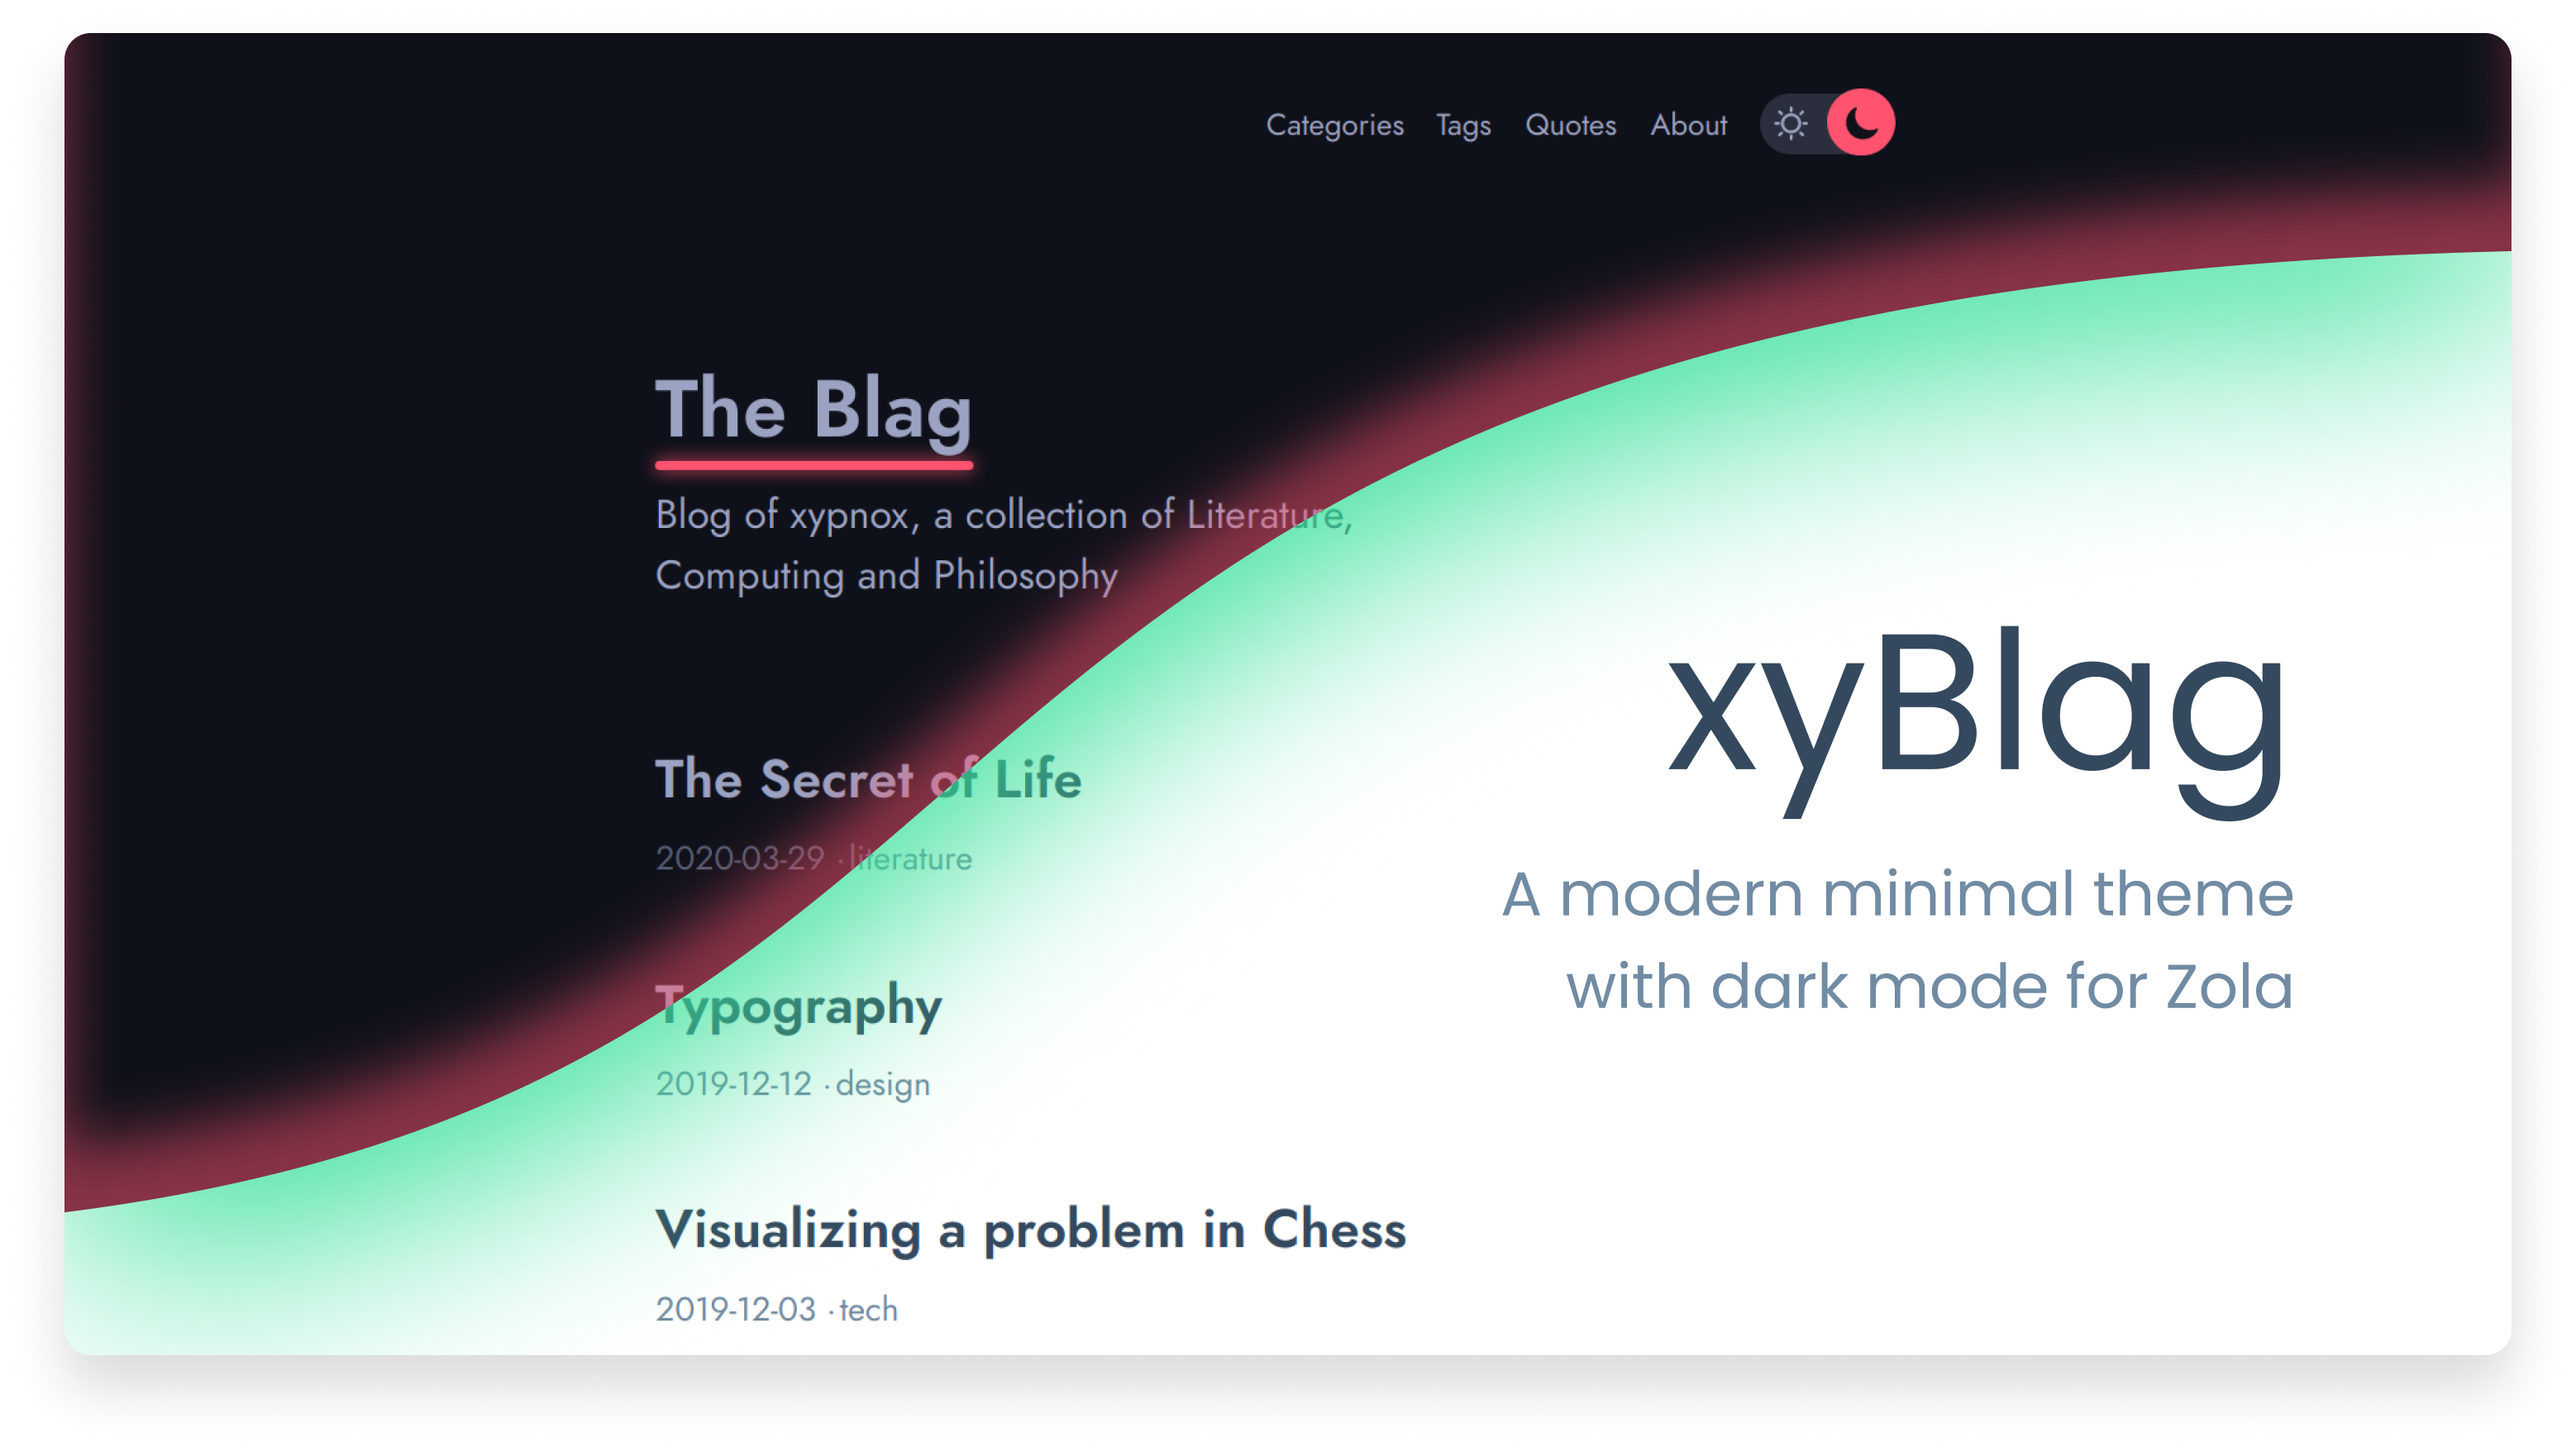
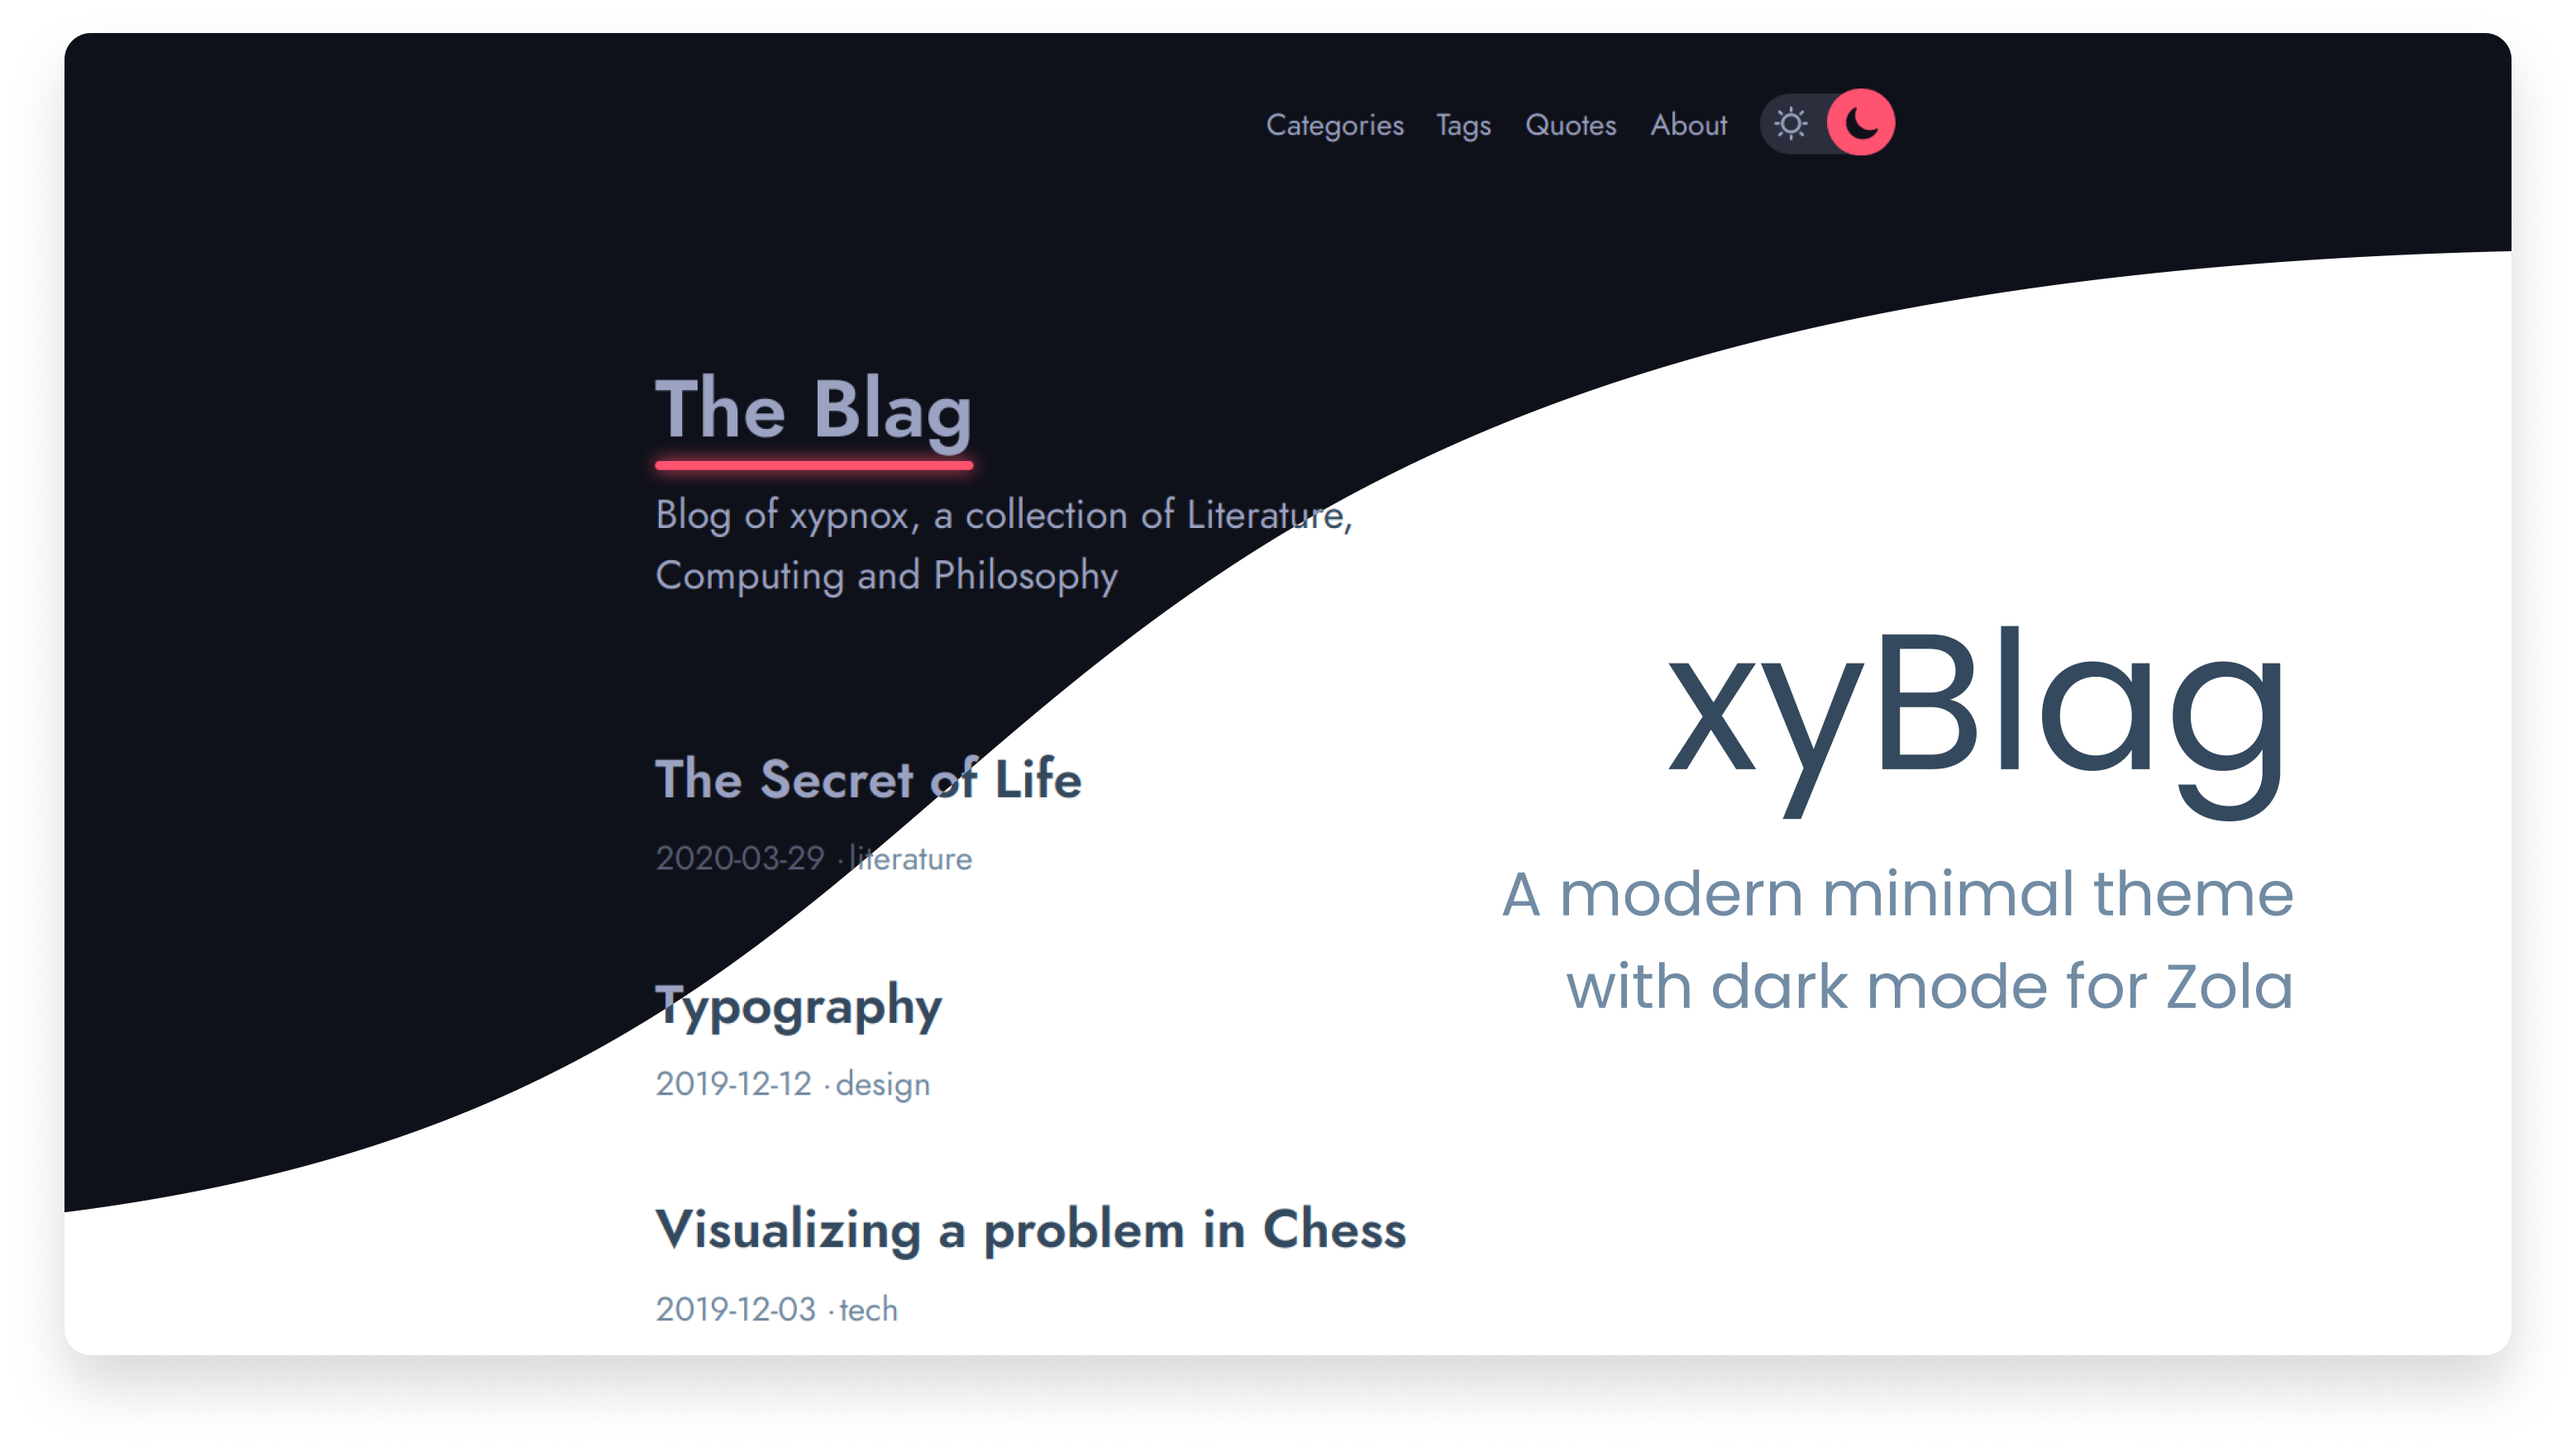
Update readme and screenshot

Changed region(s): [[0.0, 0.0308, 0.9961, 0.9533]]

diff --git a/themes/xyblag/README.md b/themes/xyblag/README.md
@@ -1,7 +1,7 @@
 # xyBlag
-Even is a clean, responsive theme based on the Hugo theme with the same name featuring categories, tags and pagination.
+xyBlag is a clean, responsive theme based on the Hugo theme with the same name featuring categories, tags and pagination.
 
-![even screenshot](https://github.com/getzola/even/blob/master/screenshot.png?raw=true)
+![Blag screenshot](https://github.com/xypnox/blag/blob/master/themes/xyblag/screenshot.png?raw=true)
 
 ## Contents
 
@@ -11,16 +11,15 @@ Even is a clean, responsive theme based on the Hugo theme with the same name fea
   - [Title](#title)
 
 ## Installation
-First download this theme to your `themes` directory:
+First download this repo and copy the folder `themes/xyblag` to your `themes` directory:
 
 ```bash
-$ cd themes
-$ git clone https://github.com/getzola/even.git
+$ git clone https://github.com/xypnox/blag.git
 ```
 and then enable it in your `config.toml`:
 
 ```toml
-theme = "even"
+theme = "xyblag"
 ```
 
 The theme requires tags and categories taxonomies to be enabled in your `config.toml`:
@@ -47,11 +46,11 @@ sort_by = "date"
 ## Options
 
 ### Top-menu
-Set a field in `extra` with a key of `even_menu`:
+Set a field in `extra` with a key of blog_menu`:
 
 ```toml
 # This is the default menu
-even_menu = [
+blog_menu = [
     {url = "$BASE_URL", name = "Home"},
     {url = "$BASE_URL/categories", name = "Categories"},
     {url = "$BASE_URL/tags", name = "Tags"},
@@ -62,10 +61,8 @@ even_menu = [
 If you put `$BASE_URL` in a url, it will automatically be replaced by the actual
 site URL.
 
-### Title
-The site title is shown on the header. As it might be different from the `<title>`
-element that the `title` field in the config represents, you can set the `even_title`
-instead.
+### Title and Description
+The site title and description is used in the header.
 
 ### KaTeX math formula support
 

diff --git a/README.md b/README.md
@@ -4,11 +4,25 @@
 
 ![Deployment](https://github.com/xypnox/blag/workflows/Deployment/badge.svg)
 
+
+
 This repository contains the source for my "blag" hosted at [xypnox.com/blag](https://www.xypnox.com/blag/).
 
 The blog is built using [Zola](https://www.getzola.org/), A static site generator written in Rust. It uses a custom theme made specifically for this blog named `xyblag`, which can be found in the [themes/xyblag](https://github.com/xypnox/blag/tree/master/themes/xyblag) directory.
 
+## Usage
 
+`zola serve` to start a local server for live development, the deployment is done aomaticalluy through Github Actions.
+
+The specific instructions for the theme are present in the [xyBlag theme's Readme](https://github.com/xypnox/blag/blob/master/themes/xyblag/README.md).  
+
+
+
+## Theme
+
+![Blag screenshot](https://github.com/xypnox/blag/blob/master/themes/xyblag/screenshot.png?raw=true)
+
+The theme is custom made for specificaly this blog and can be found in the [`themes/xyblag`](https://github.com/xypnox/blag/tree/master/themes/xyblag) directory.
 
 ## Credits
 
